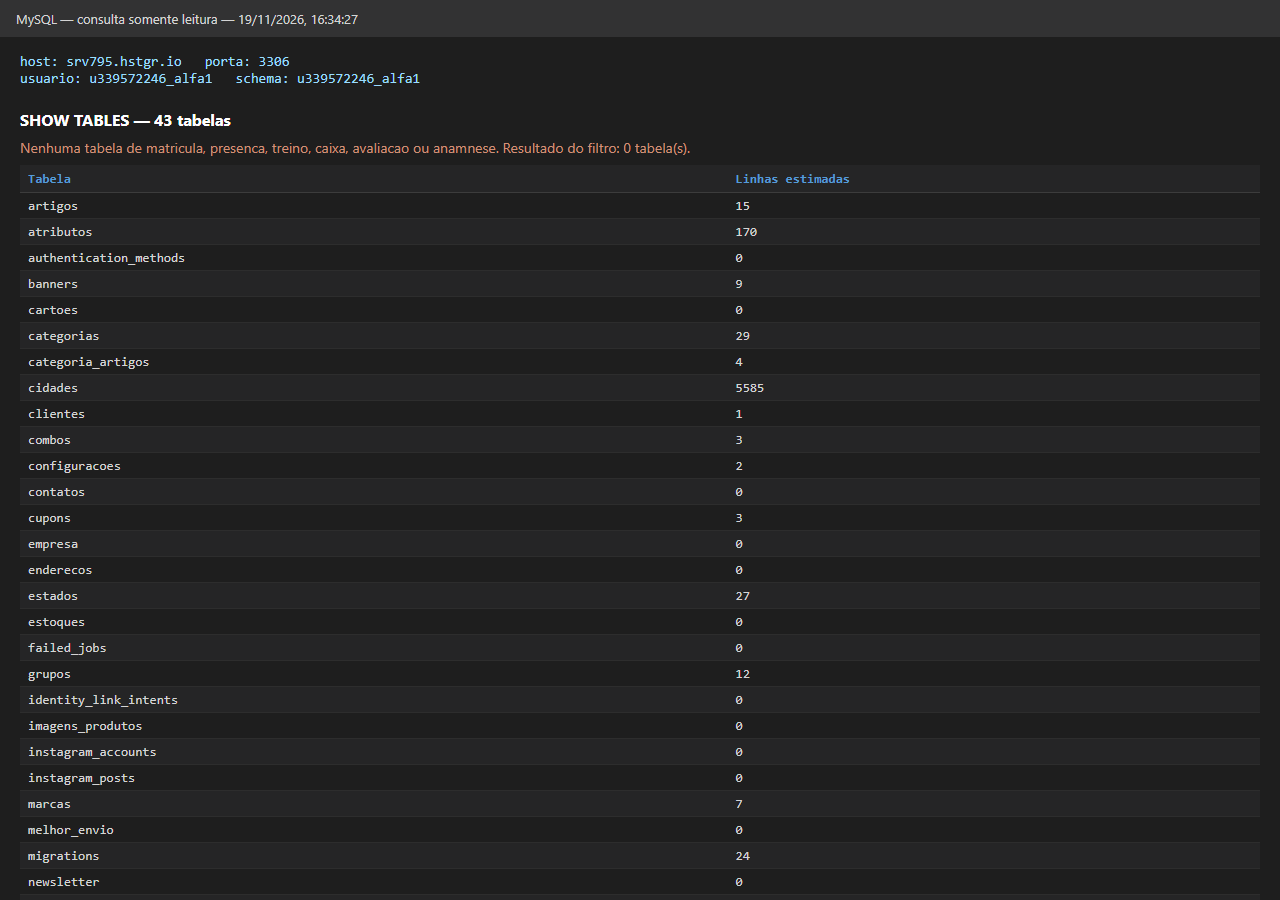
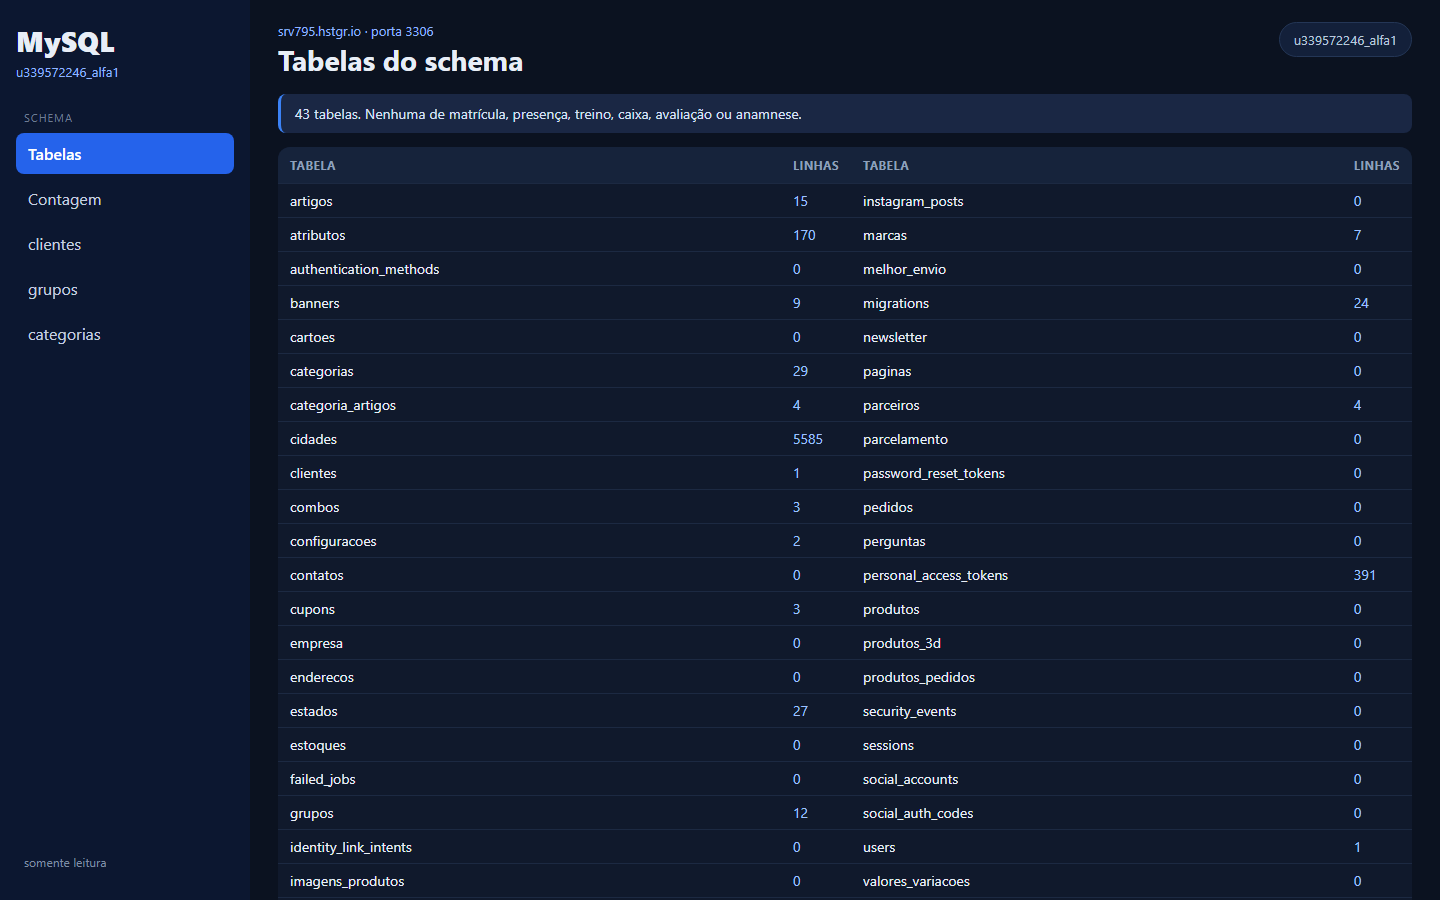
Substitui os textos do banco por prints visuais da consulta.
As telas mostram tabelas, contagem, colunas, grupos e categorias.

diff --git a/manual-sifit/MANUAL.md b/manual-sifit/MANUAL.md
@@ -55,7 +55,7 @@ Resultado do passo 5, medido em 19/11/2026:
 
 A listagem de alunos do SIFIT, na mesma data, mostra centenas de códigos (a tela de Clientes indica 151 cadastrados, com códigos na casa de 440). Esses registros não estão no MySQL do slide. A evidência de persistência do SIFIT, portanto, é a API autenticada documentada em cada função. O dicionário completo do MySQL da aula está em [docs/banco/schema.md](docs/banco/schema.md).
 
-Prints da consulta somente leitura, gravados em `evidencias/banco/`:
+Prints visuais da consulta somente leitura, no mesmo formato das telas do sistema, gravados em `evidencias/banco/`:
 
 ![Conexão e lista de tabelas](evidencias/banco/01-conexao-e-tabelas.png)
 
@@ -65,7 +65,7 @@ Prints da consulta somente leitura, gravados em `evidencias/banco/`:
 
 ![Conteúdo da tabela grupos neste schema](evidencias/banco/04-grupos-da-loja.png)
 
-O resultado inteiro da consulta está em `evidencias/banco/05-resultado-completo.png`.
+As categorias e as marcas desse schema estão em `evidencias/banco/05-resultado-completo.png`.
 
 Chamadas comuns a quase toda tela, além da função em si:
 
